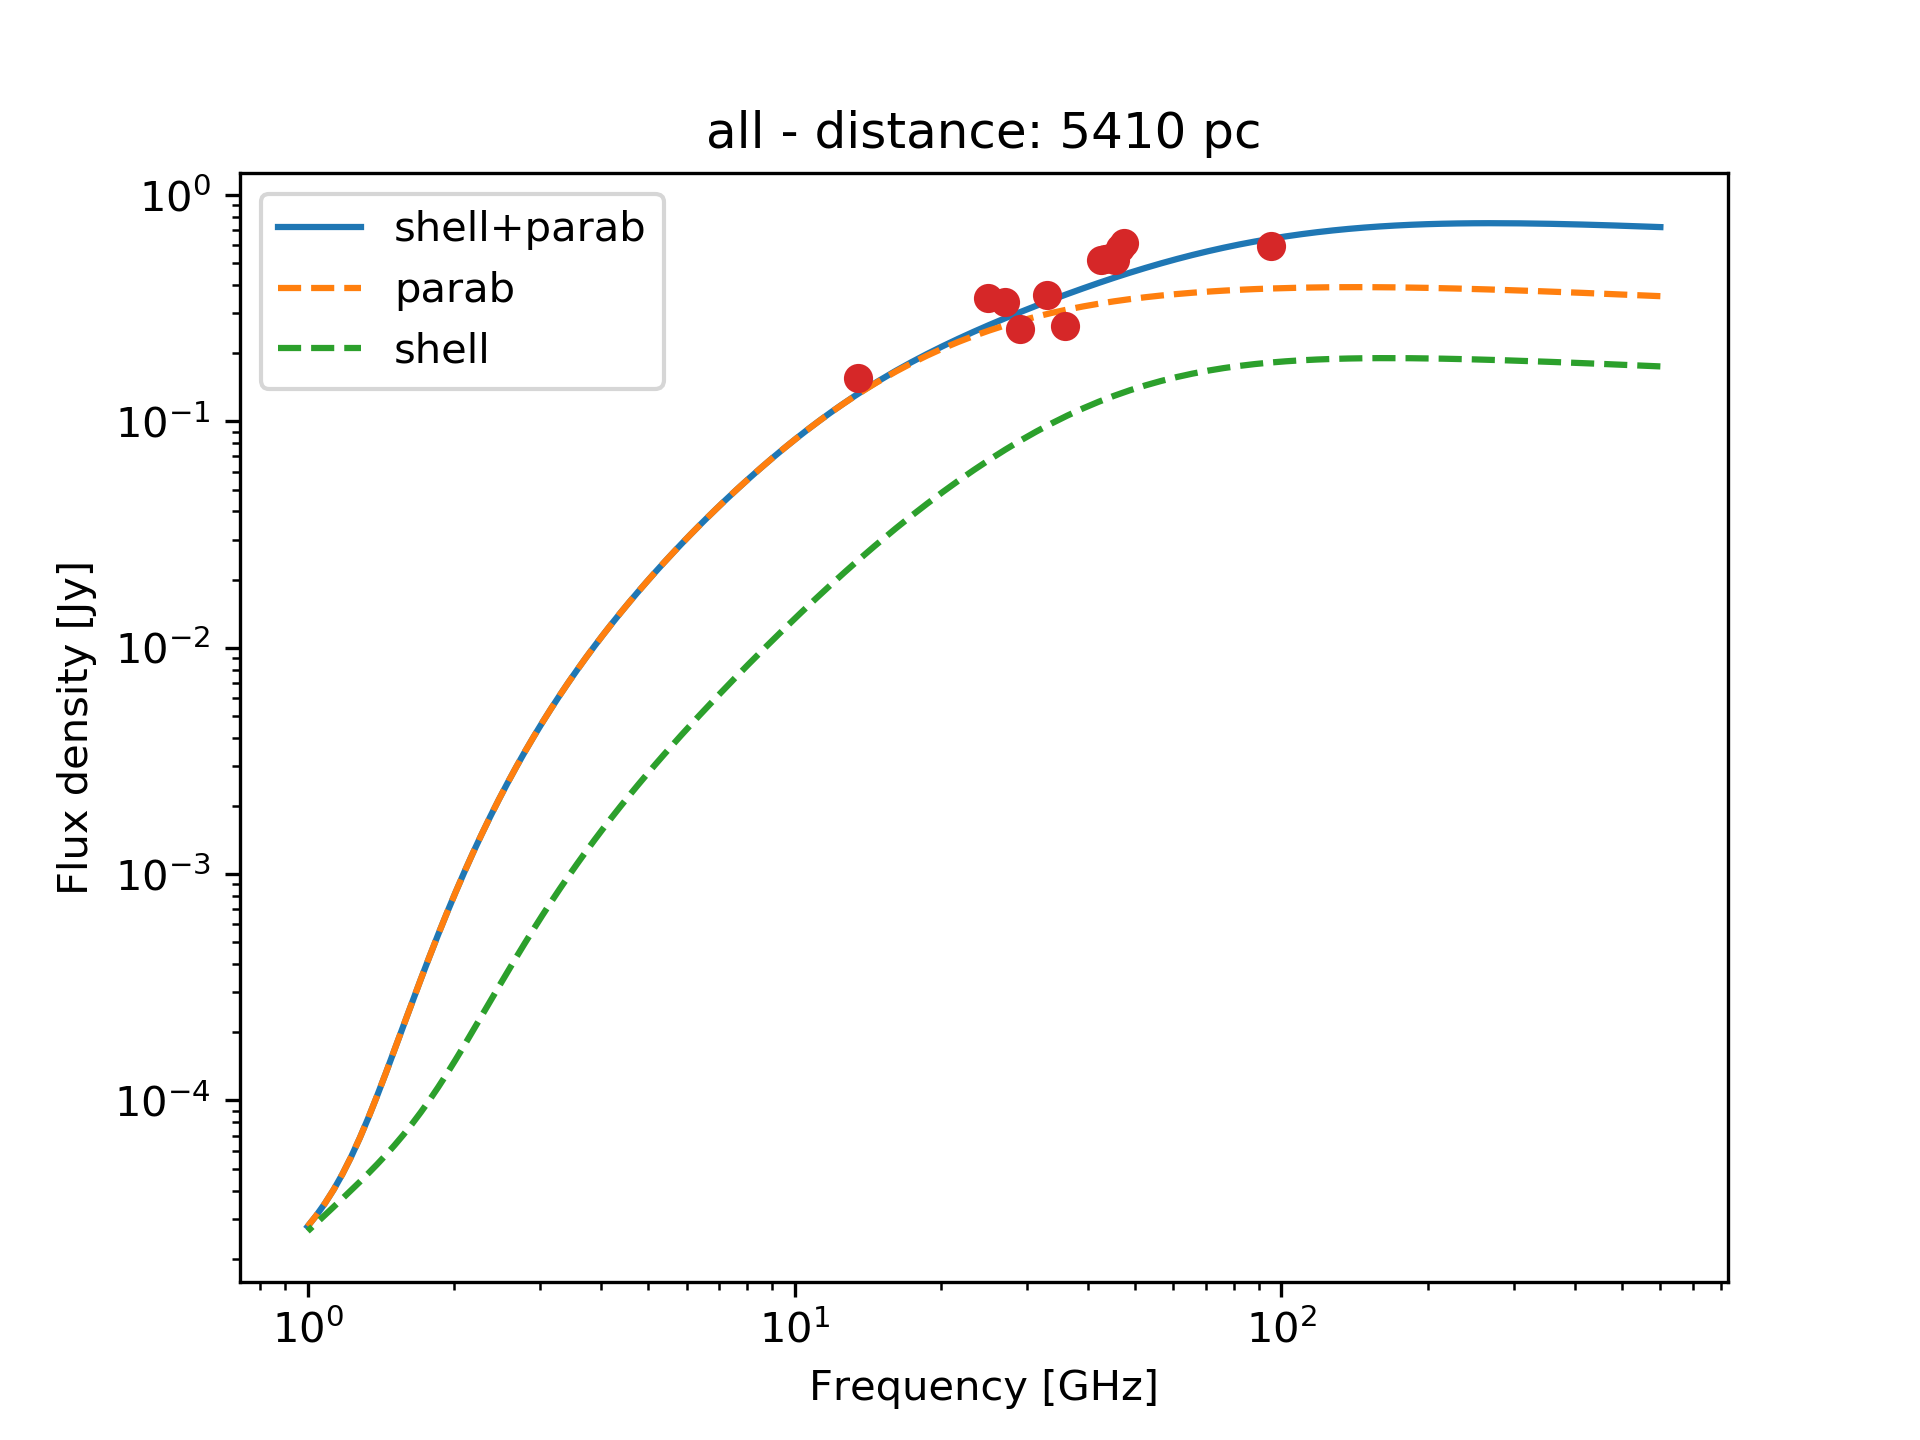
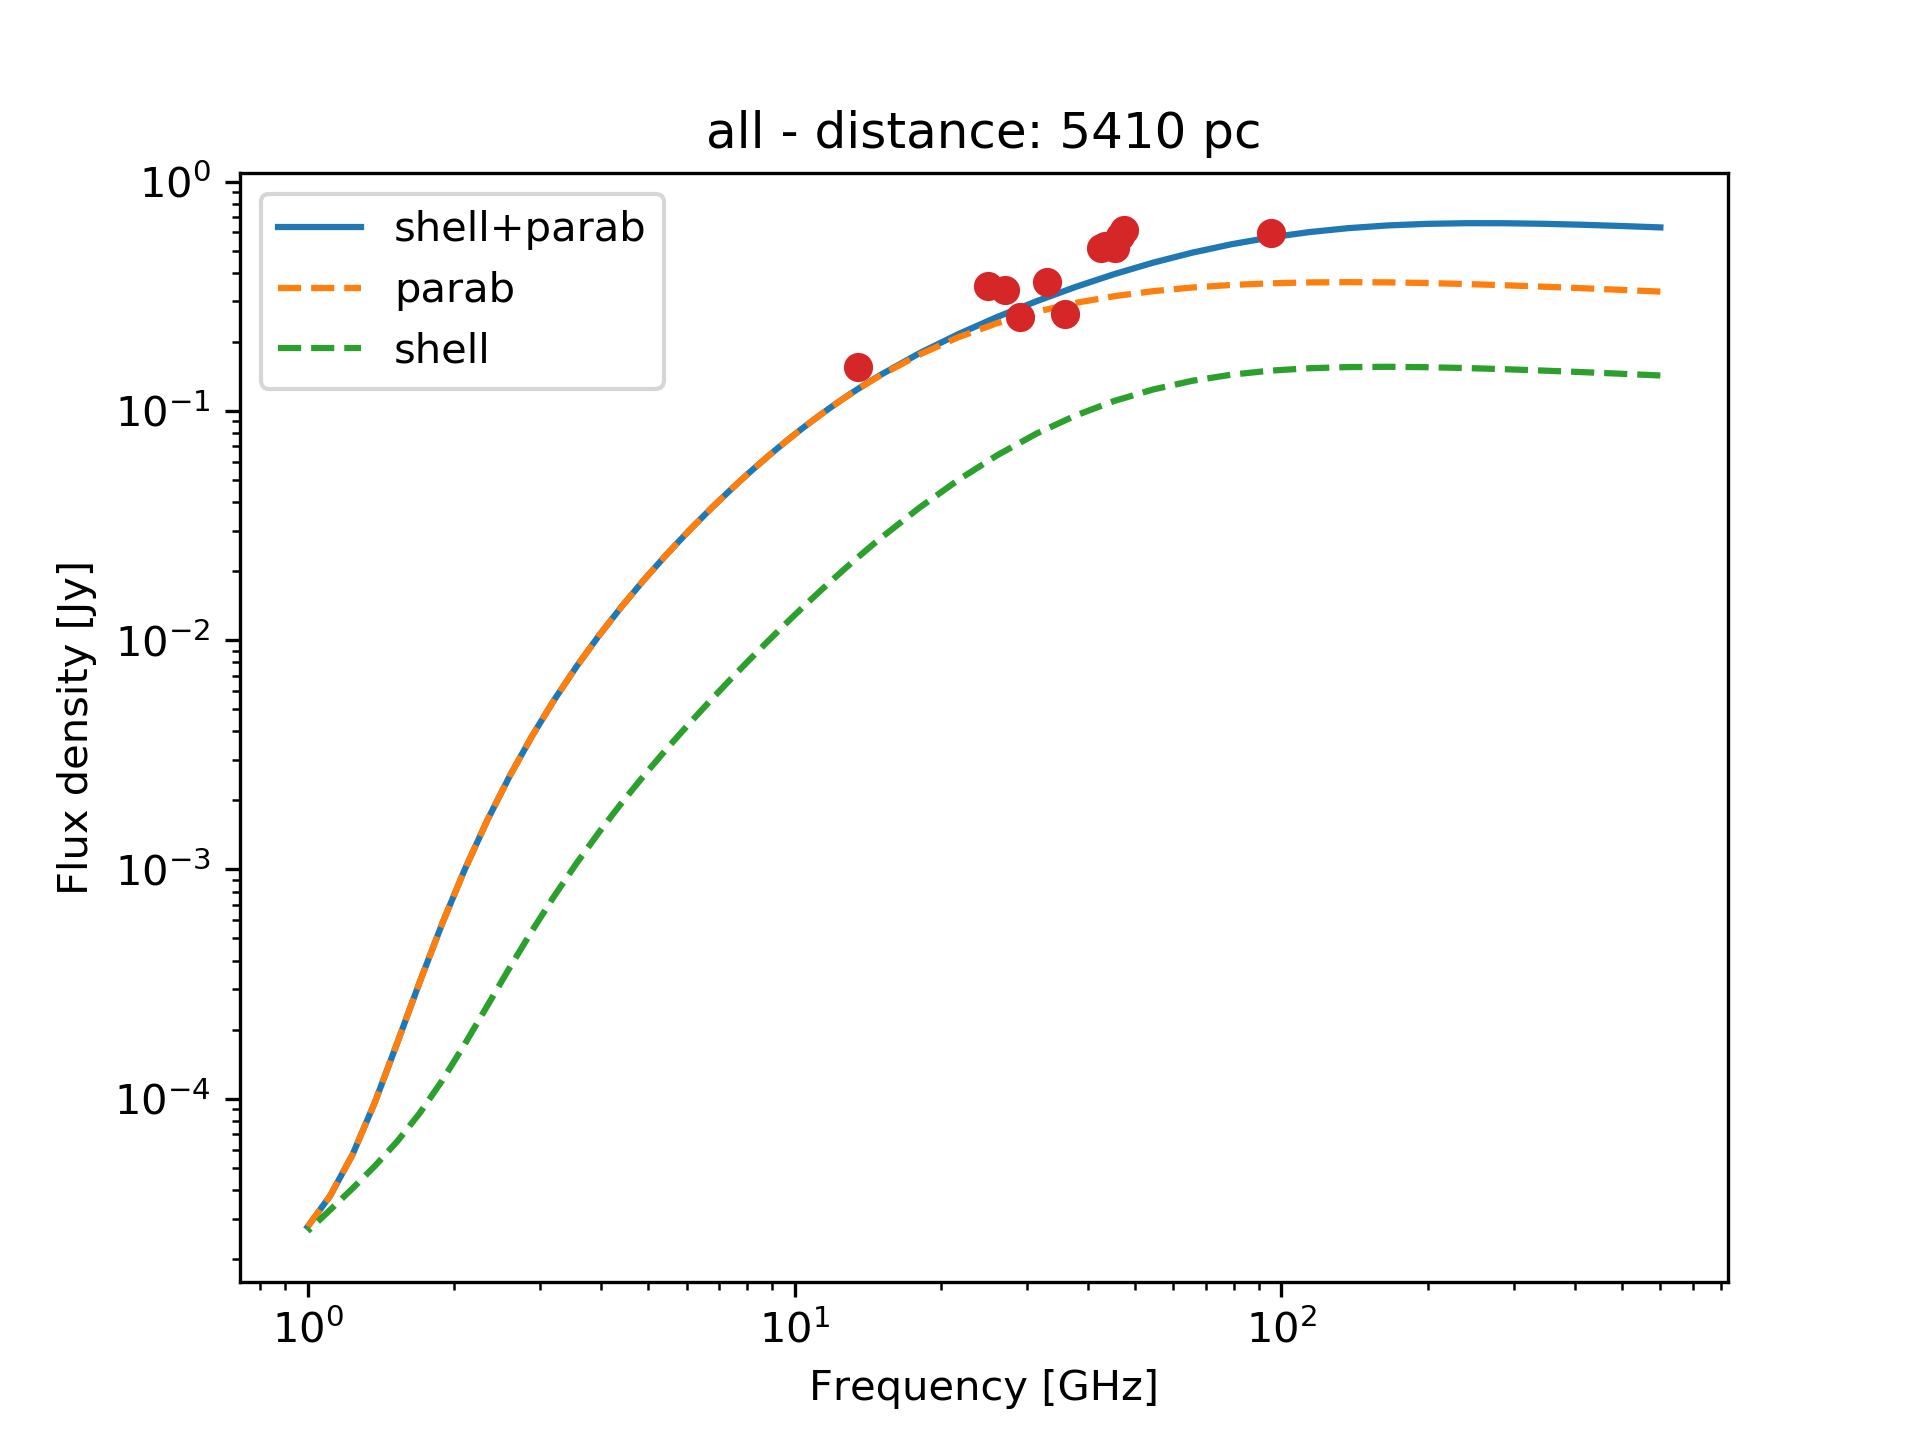
Newest files + sed + using class sf3dmodels.Model.Radmc3d at generate_master.py to write into files

diff --git a/generate_master.py b/generate_master.py
@@ -1,45 +1,112 @@
 from __future__ import print_function
 import runpy
-import os
+import os, sys
 import shutil
 import time
-
-t0 = time.time()
-
-runpy.run_path('exec_paraboloid.py')
-runpy.run_path('exec_shellparab.py')
+import numpy as np
 
 import sf3dmodels.BuildGlobalGrid as BGG
 from sf3dmodels import Model, Plot_model as Pm, Utils as U
-import numpy as np
 
+t0 = time.time()
+runpy.run_path('exec_paraboloid.py')
+runpy.run_path('exec_shellparab.py')
+
+#Plotting 3-D grid points?
+plot_3d = True 
+
+#**********************************
+#SETTING DEFAULTS FOR RADMC-3D
+#**********************************
+nthreads = 4 
+"""
+in kwargs_wavelength:
+lam: wavelength intervals in microns, nxx: num of partitions in each interval 
+"""
+files_ff = lambda R: R.freefree(kwargs_control = {'setthreads': nthreads},
+                                kwargs_wavelength = {'lam': [5e2,2e4,4e4,3e5], 
+                                                     'nxx': [20,20,20]}) 
+dict_from_global = lambda G: {'dens_elect': G.density, 
+                              'dens_ion': G.density,
+                              'tgas': G.temperature} 
+ 
+#**********************************
+#COMMON GRID TO MERGE MODELS IN
+#**********************************
 sizex = 3000 * U.AU
 sizey = sizez = sizex
-Nx = 100 
+Nx = 125 
 Ny = Nz = Nx
 GRID = Model.grid([sizex, sizey, sizez], [Nx, Ny, Nz], radmc3d = True)
-global_prop = BGG.overlap(GRID, all = False, radmc3d = True,
-                          submodels=['paraboloid0.dat'])
+
+#**********************************
+#MERGING PARABOLOID ONLY + SED
+#**********************************
+globalA = BGG.overlap(GRID, all = False, radmc3d = True,
+                      submodels=['paraboloid0.dat'])
+prop_dict = dict_from_global(globalA)
+
+A = Model.Radmc3d(prop_dict, GRID)
+files_ff(A)
 
 os.system('radmc3d sed dpc 5410')
 shutil.move('spectrum.out','spectrum_parab.out')
+print ('-------------------------------------------------\n-------------------------------------------------')
 
-global_prop = BGG.overlap(GRID, all = False, radmc3d = True,
-                          submodels=['shell0.dat'])
+#**********************************
+#MERGING SHELL ONLY + SED
+#**********************************
+globalB = BGG.overlap(GRID, all = False, radmc3d = True,
+                      submodels=['shell0.dat'])
+prop_dict = dict_from_global(globalB)
+
+B = Model.Radmc3d(prop_dict, GRID)
+files_ff(B)
 
 os.system('radmc3d sed dpc 5410')
 shutil.move('spectrum.out','spectrum_shell.out')
+print ('-------------------------------------------------\n-------------------------------------------------')
 
-global_prop = BGG.overlap(GRID, all = False, radmc3d = True,
-                          submodels=['shell0.dat', 'paraboloid0.dat'])
+#**********************************
+#MERGING PARABOLOID+SHELL + SED
+#**********************************
+globalC = BGG.overlap(GRID, all = False, radmc3d = True,
+                      submodels=['shell0.dat', 'paraboloid0.dat'])
+prop_dict = dict_from_global(globalC)
+
+C = Model.Radmc3d(prop_dict, GRID)
+files_ff(C)
 
 os.system('radmc3d sed dpc 5410')
 shutil.move('spectrum.out','spectrum_shell+parab.out')
 
+#**********************************
+#GRID POINTS 3-D PLOTTING
+#**********************************
+if plot_3d:
+    tags = iter(['A','B','C'])
+    npoints = iter([2000,3000,2000])
+    for density in [globalA.density, globalB.density, globalC.density]:
+        dens2plot = density/1e6
+        weight = 10*np.mean(dens2plot)
+        Pm.scatter3D(GRID, dens2plot, weight, 
+                     NRand = next(npoints), axisunit = U.AU, 
+                     colorscale = 'log', 
+                     cmap = 'cool',
+                     colorlabel = r'${\rm log}_{10}(\rho [cm^{-3}])$', 
+                     output = 'global_grid%s.png'%next(tags), 
+                     vmin = 5.5,
+                     azim = 10,
+                     elev = 30,
+                     show = False)
+
+#**********************************
+#PLOTTING SEDS + FITS + CONVOLUTION
+#**********************************
 runpy.run_path('plot_sed_data.py')
 runpy.run_path('generate_fits.py')
-
-print("\nCreating folder radmc3d_inp/")
+print ('-------------------------------------------------\n-------------------------------------------------')
+print("Creating folder radmc3d_inp/")
 os.system('mkdir radmc3d_inp')
 print("Moving *.inp files to radmc3d_inp/")
 os.system('mv *.inp radmc3d_inp')
@@ -58,7 +125,8 @@ os.system('mv *.fits data')
 
 from astropy import units as u
 alpha_b = 2.6e-13*u.cm**3 * u.s**-1
-Q = ((alpha_b * (global_prop.GRID.step*u.m)**3 * (global_prop.density*u.m**-3)**2).sum()).decompose()
+Q = ((alpha_b * (GRID.step*u.m)**3 * (globalC.density*u.m**-3)**2).sum()).decompose()
 print('log10 of the ionizing luminosity Q [photons s^-1]:', np.log10(Q.value))
 
 print("Ellapsed time from master: %.2f s"%(time.time()-t0))
+print ('-------------------------------------------------\n-------------------------------------------------')

diff --git a/exec_paraboloid.py b/exec_paraboloid.py
@@ -22,7 +22,11 @@ tag = 'paraboloid0.dat'
 
 z_min = 1*AU
 z_max = 1800*AU
-drBIGGRID = 80*AU
+"""
+drBIGGRID = sqrt(dx**2+dy**2+dz**2) or smaller 
+ --> the smaller the more points to be generated
+"""
+drBIGGRID = 80*AU 
 
 #rho = lambda R: dens0
 #T = lambda R: 10000.
@@ -33,12 +37,10 @@ temp = [T0, qT]
 
 dens0 = 2.6e14 
 qn = -0.9 #-2
-#dens0 = 2e14 * 5 / 2.5 / 50
-#qn = -0.5 #-2
 dens = [dens0, qn]
 
-a = 2*np.sqrt(300*AU) #10*AU
-b = 2*np.sqrt(300*AU) #10*AU
+a = 2*np.sqrt(300*AU) 
+b = 2*np.sqrt(300*AU)
 GRID, props  = make_paraboloid(z_min, z_max, drBIGGRID, a, b, dens, T0)
 shift = Model.ChangeGeometry(GRID, center = np.array([0, dy, dx])*AU,
                              rot_dict = { 'angles': [-np.pi/180*(posang+90 + 8),

diff --git a/exec_shellparab.py b/exec_shellparab.py
@@ -22,6 +22,10 @@ tag = 'shell0.dat'
 
 z_min = 1*AU
 z_max = 400*AU
+"""
+drBIGGRID = sqrt(dx**2+dy**2+dz**2) or smaller 
+ --> the smaller the more points to be generated
+"""
 drBIGGRID = 20*AU
 
 #rho = lambda R: dens0
